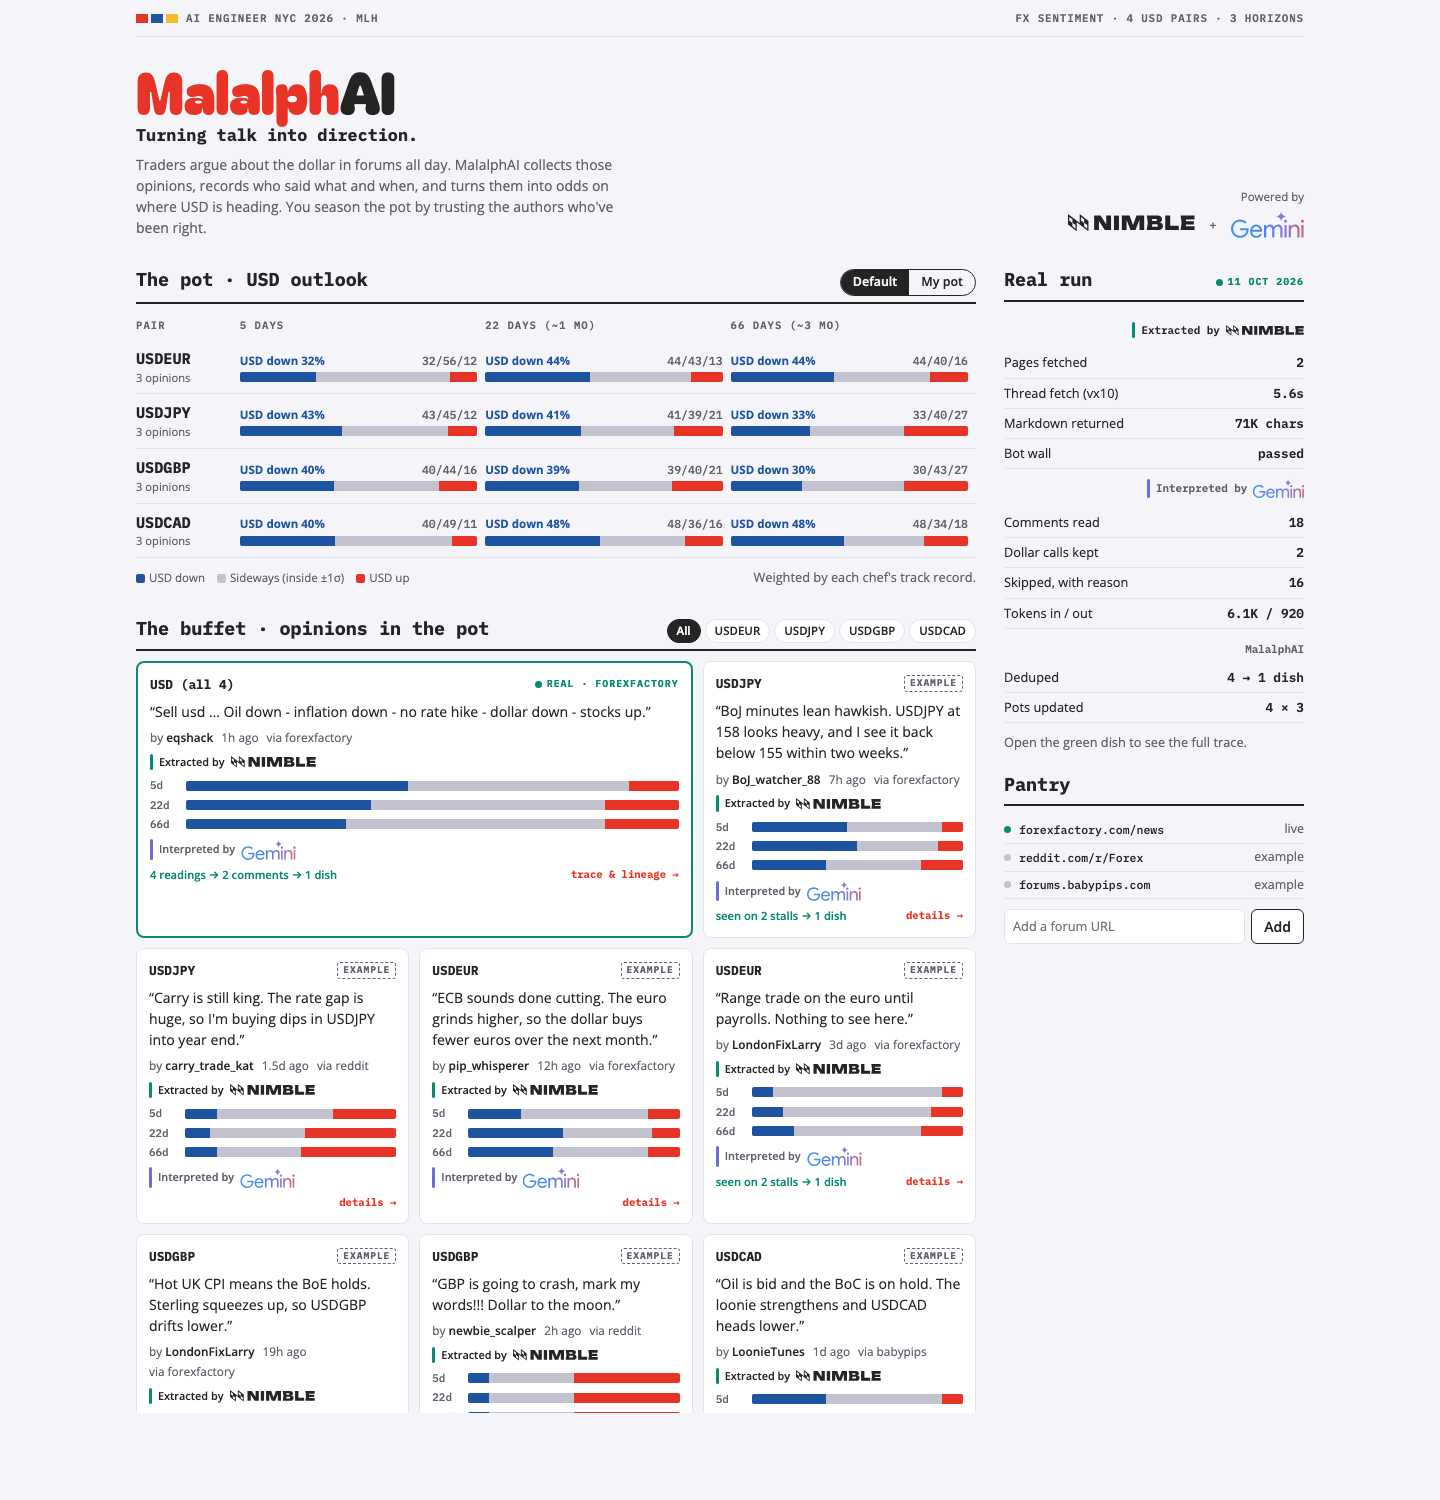
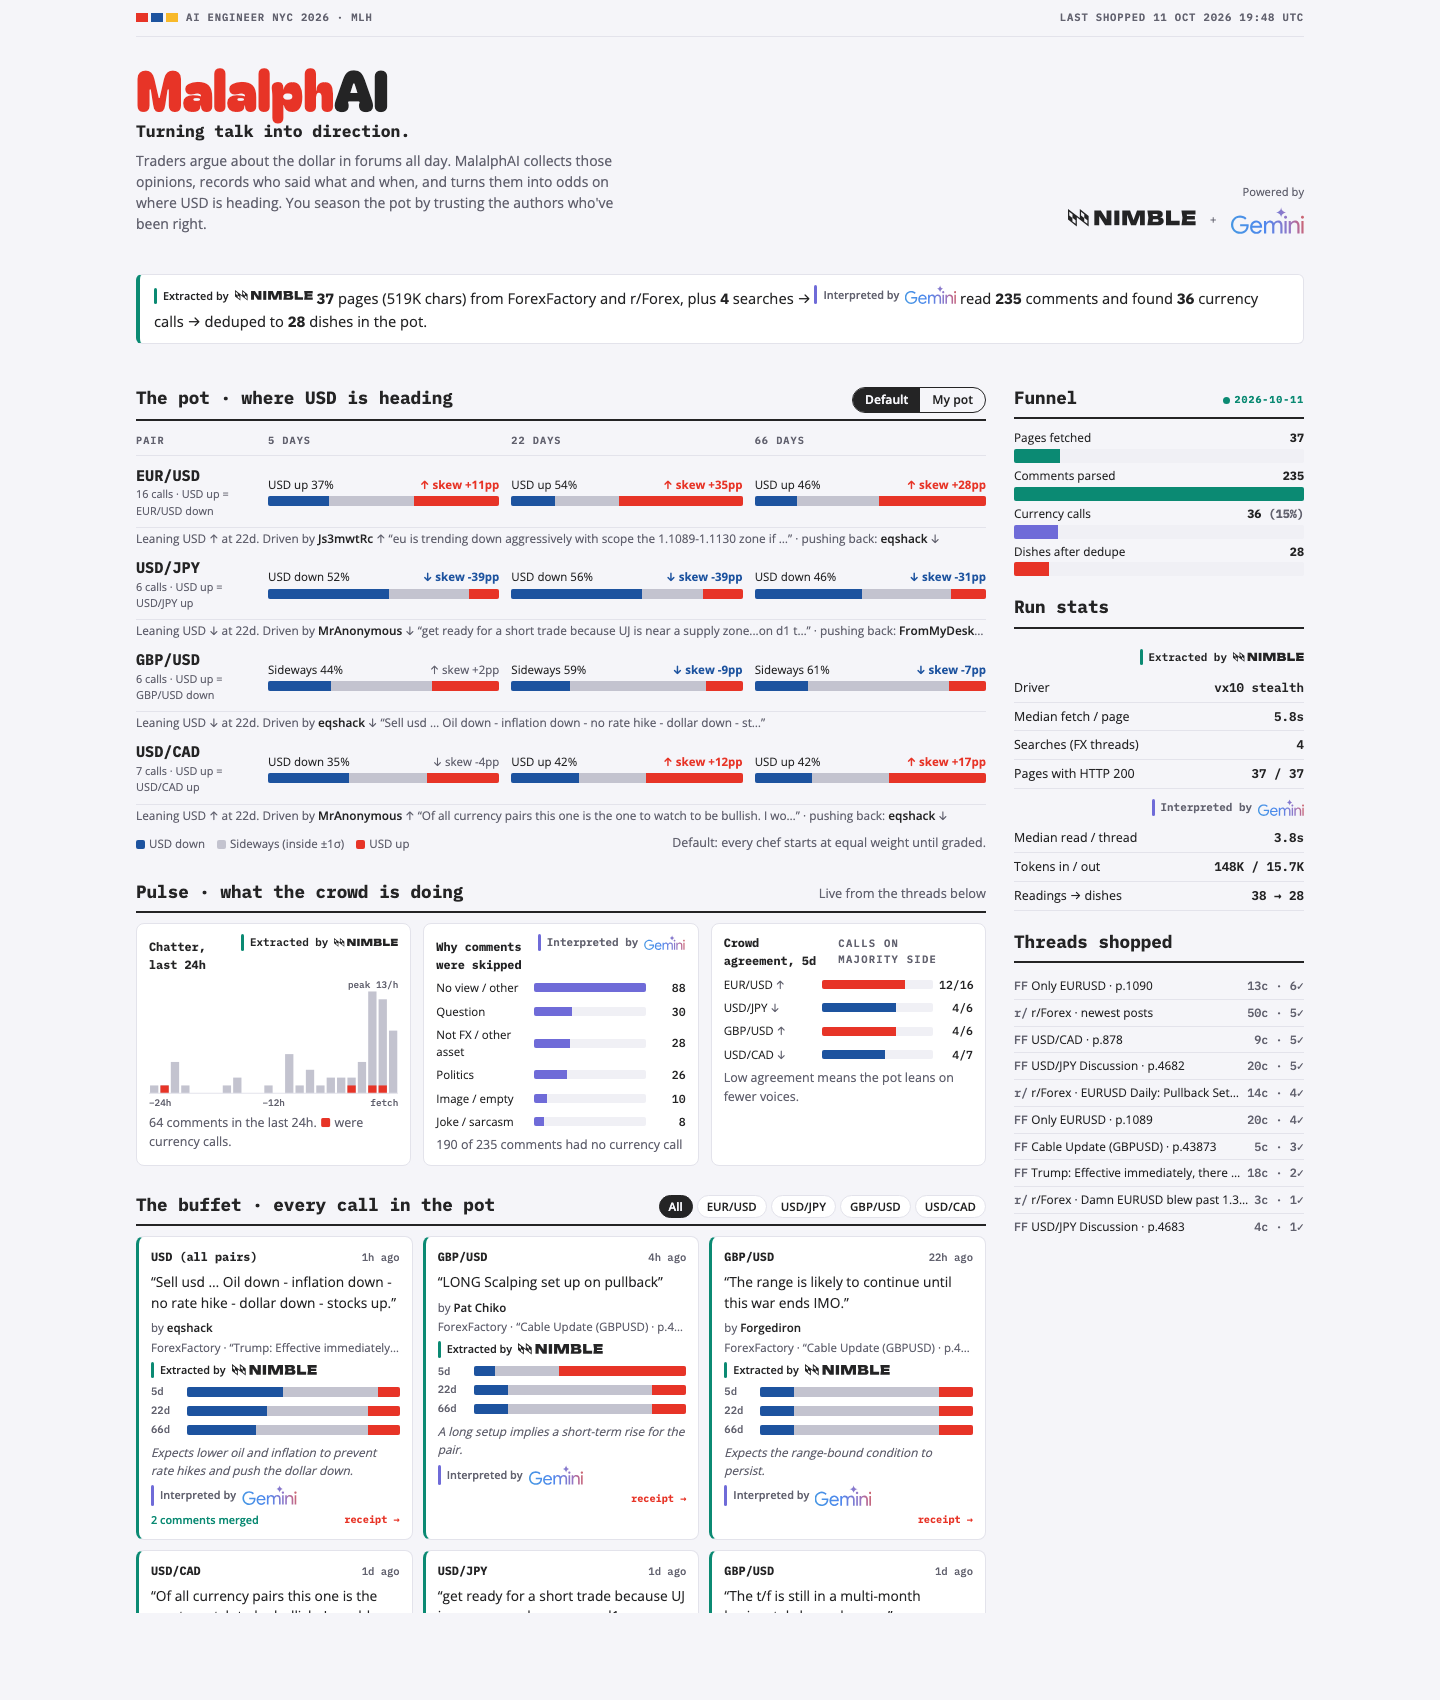
README: final real-run numbers, run steps, evidence cap; fresh screenshots

diff --git a/README.md b/README.md
@@ -29,21 +29,22 @@ Great ideas come from great data. Every day, thousands of traders post their vie
 
 | Step | Result |
 | --- | --- |
-| Nimble Extract, `vx10` stealth browser | ForexFactory (Cloudflare-protected) fetched in 5.6s for a thread and 9.8s for the news page, giving 70K chars of markdown |
-| Comments parsed from Nimble's markdown | 18, each with author, time and comment ID |
-| Gemini (`gemini-3.8-flash`, JSON schema) | 2 dollar calls kept, the rest skipped with reasons. 6.1K tokens in, 0.9K out |
-| Dedupe by comment ID | Same 2 comments found on both pages, so 4 readings became 1 dish |
-| Pot | 4 pairs × 3 horizons updated |
+| **Nimble Search** (`include_domains: forexfactory.com`) | 4 searches found the long-running USD/JPY, USD/CAD, EUR/USD and GBP/USD trading threads |
+| **Nimble Extract** (`vx10` stealth browser, 3s wait) | 37 pages from Cloudflare-protected ForexFactory (news, story threads, forums) plus r/Forex's official RSS feeds (`vx6`). 519K chars of markdown, every page HTTP 200, median 5.7s per page, run in parallel |
+| Comments parsed from Nimble's markdown | 235, each with author, time and permalink ID |
+| **Gemini** (`responseSchema`, Flash, falling back to Flash-Lite on 429/503) | 36 currency calls kept, every skip explained. 148K tokens in, 16K out, median 3.7s per thread |
+| Dedupe | Comment IDs merge repeats: 38 readings became 28 dishes |
+| Pot | 4 pairs × 3 horizons, with every number traceable to its source comment |
 
-Example: **eqshack** wrote *"Sell usd … Oil down - inflation down - no rate hike - dollar down - stocks up."* Gemini read it as USD-bearish on all four pairs.
+Example: **eqshack** on ForexFactory wrote *"Sell usd … Oil down - inflation down - no rate hike - dollar down - stocks up."* Gemini read it as USD-bearish on all four pairs: *"Expects lower oil and inflation to prevent rate hikes and push the dollar down."*
 
 ## How the kitchen works
 
 ```mermaid
 flowchart LR
   subgraph Shop["1 · Shop — Nimble"]
-    P[Pantry of forums] --> S[Nimble Search<br/>fresh threads · next]
-    S --> E[Nimble Extract<br/>vx10 stealth + wait → markdown]
+    P[Pantry of forums] --> S[Nimble Search<br/>find FX forum threads]
+    S --> E[Nimble Extract<br/>vx10 stealth + wait, vx6 for RSS → markdown]
     P --> E
     E -.-> C[Nimble Crawl<br/>whole forums · next]
   end
@@ -60,6 +61,8 @@ flowchart LR
 ```
 
 **Update rule:** `log P(k) = log prior(k) + Σ wᵢ · log(qᵢ(k) / prior(k))`, where `wᵢ = chef weight × trust(up|down) × 0.5^(age / half-life)`. The half-lives are 2, 7 and 20 days for the 5d, 22d and 66d horizons. A chef's weight starts from a Beta(2,2) prior on their hit rate.
+
+Forum posts echo each other, so each pot's weights are scaled so they never add up to more than 3 independent voices, and no single post counts as more than one. That keeps a pile-on from looking like certainty.
 
 **Pair convention:** USDJPY = yen per dollar (≈158). "Up" always means the USD strengthens.
 
@@ -81,28 +84,26 @@ flowchart LR
 ## Run it
 
 ```bash
-cp .env.example .env   # add NIMBLE_API_KEY and GEMINI_API_KEY
-# 1. Fetch a thread with Nimble
-curl -s -X POST https://sdk.nimbleway.com/v2/extract \
-  -H "Authorization: Bearer $NIMBLE_API_KEY" -H 'Content-Type: application/json' \
-  -d '{"url":"https://www.forexfactory.com/news/1430919-trump-effective-immediately-there-is-an-energy-ceasefire","driver":"vx10","formats":["markdown"],"browser_actions":[{"wait":3000}]}' \
-  > data/raw/ff_story_1430919.json
-# 2. Read it with Gemini
-python3 pipeline/gemini_extract.py data/raw/ff_story_1430919.json > data/extracted/ff_story_1430919.json
-# 3. Rebuild the page
-python3 pipeline/build_live.py   # writes docs/index.html
+cp .env.example .env              # add NIMBLE_API_KEY and GEMINI_API_KEY
+python3 pipeline/shop.py 30       # Nimble: FF news page + every FX story / commented thread, then Gemini
+python3 pipeline/reddit.py        # Nimble: r/Forex official RSS feeds, then Gemini
+python3 pipeline/taste_queue.py   # Gemini: read anything not yet read, gently (rate limits)
+python3 pipeline/build_live.py    # build docs/index.html
+python3 video/render.py           # optional: render the comic demo video
 ```
 
 ## Repo
 
+- `pipeline/shop.py`, `pipeline/reddit.py`: Nimble shopping (Extract, with the stealth `vx10` or fast `vx6` driver).
 - `pipeline/gemini_extract.py`: Nimble markdown → Gemini structured opinions, with retries, model fallback and a trace (latency, tokens, response ID, source hash).
+- `data/search/`: Nimble Search results used to find the forum threads.
 - `pipeline/build_live.py`: parses the thread, joins it with Gemini's output, dedupes, and builds the page.
 - `data/raw/`: saved Nimble responses. `data/extracted/`: saved Gemini output.
 - `docs/index.html`: the demo page (GitHub Pages).
 
 ## What's next
 
-Nimble Search and Crawl on a schedule, more forums (Reddit, BabyPips, local-language boards via geo-targeting), Gemini embeddings to match reposts across sites, and the scorekeeper that grades each chef once their horizon passes.
+Nimble Crawl on a schedule, more forums (BabyPips, local-language boards via geo-targeting), Gemini embeddings to match reposts across sites, and the scorekeeper that grades each chef once their horizon passes.
 
 ---
 
